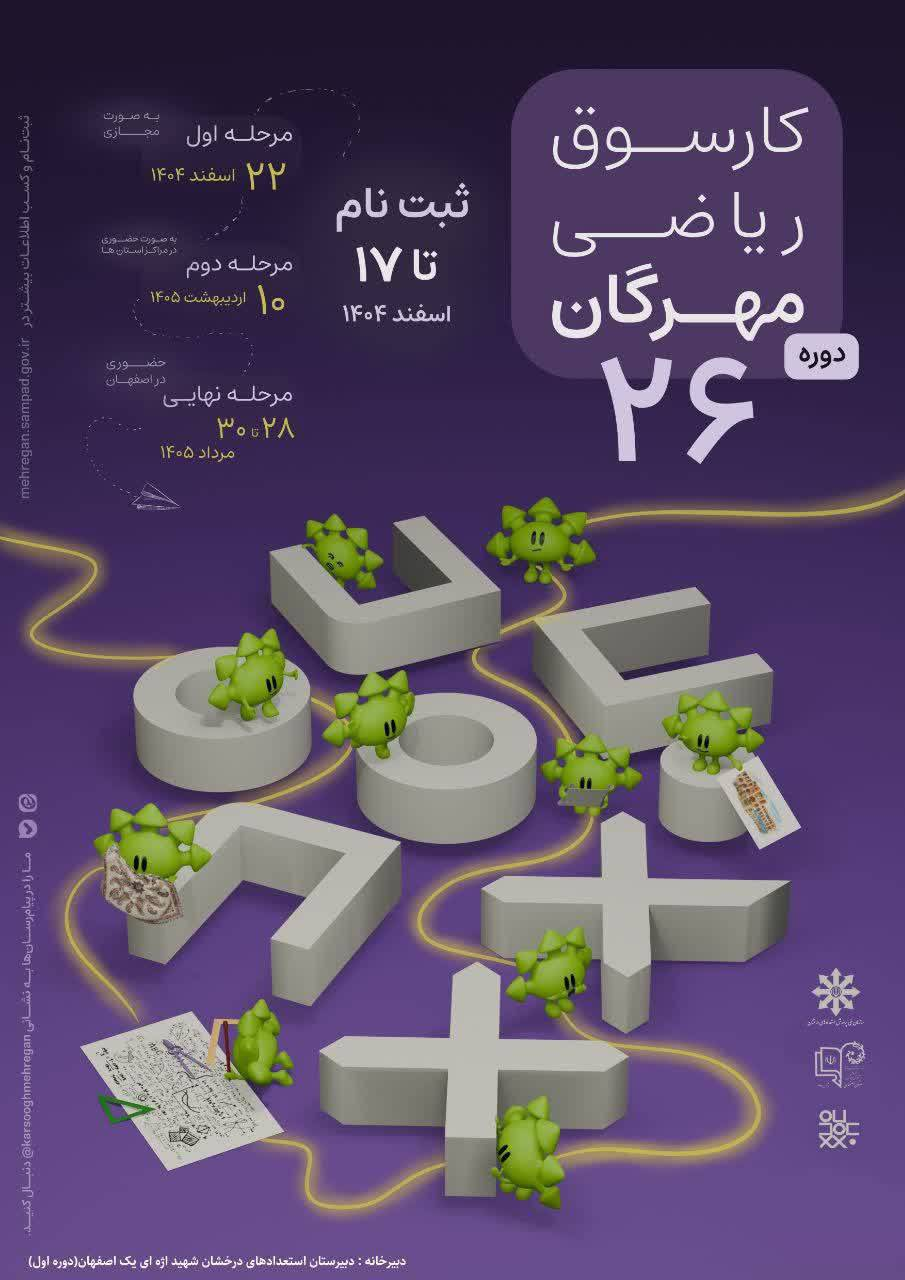
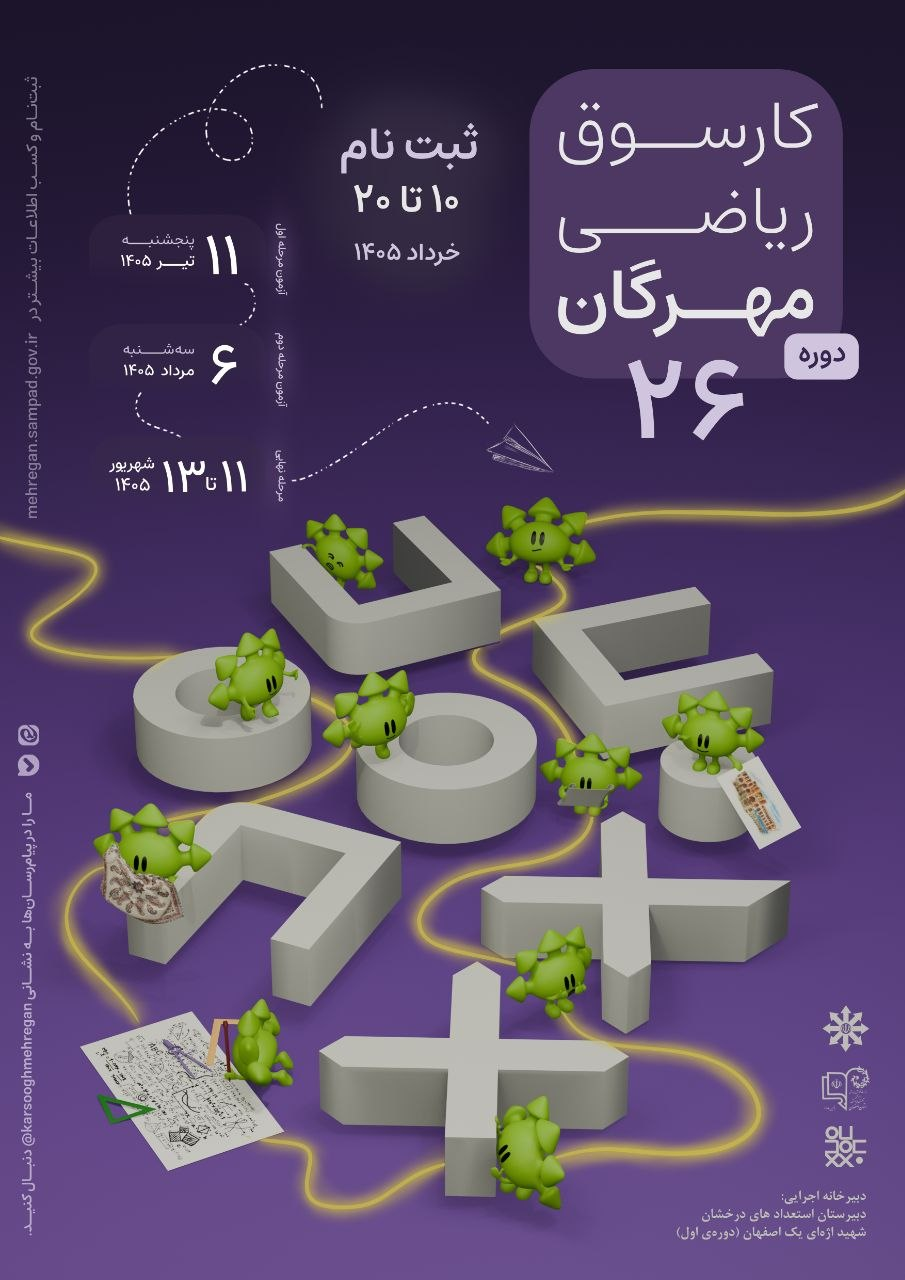
fix: update signup data and some UI fixes

diff --git a/src/components/Navbar.tsx b/src/components/Navbar.tsx
@@ -1,5 +1,5 @@
 import React, { useState } from 'react';
-import { FlaskConical, LogIn, Menu, Sparkles, X } from 'lucide-react';
+import { FlaskConical, LogIn, Menu, UserRoundPlus, X } from 'lucide-react';
 import logoIcon from '@/assets/Karsoogh.ico';
 import { Link } from 'react-router-dom';
 
@@ -61,15 +61,16 @@ const LoginButton = () => {
 
 const SignUpButton = () => {
   return (
-    <button
-      type="button"
+    <a
+      href="https://form.sampad.gov.ir/sampad/formView/3097"
+      target="_blank"
+      rel="noopener noreferrer"
       className="lab-button-primary hidden min-h-10 px-4 py-2 text-xs md:inline-flex md:text-sm"
-      disabled
-      title="ثبتنام بهزودی فعال میشود"
+      title="رفتن به فرم ثبتنام"
     >
-      <Sparkles size={16} aria-hidden="true" />
-      ثبتنام بهزودی
-    </button>
+      <UserRoundPlus size={16} aria-hidden="true" />
+      ثبتنام
+    </a>
   );
 };
 
@@ -119,14 +120,15 @@ const MobileMenu = ({
           ))}
 
           <li className="pt-2">
-            <button
-              type="button"
+            <a
+              href="https://form.sampad.gov.ir/sampad/formView/3097"
+              target="_blank"
+              rel="noopener noreferrer"
               className="lab-button-primary w-full"
-              disabled
-              title="ثبتنام بهزودی فعال میشود"
+              title="رفتن به فرم ثبتنام"
             >
-              تاریخ ثبتنام بهزودی
-            </button>
+              ثبتنام
+            </a>
           </li>
         </ul>
       </div>

diff --git a/src/components/landing/HeroSection.tsx b/src/components/landing/HeroSection.tsx
@@ -20,13 +20,16 @@ export function HeroSection() {
           دبیرخانه امور پژوهشی سازمان استعدادهای درخشان استان اصفهان
         </span>
 
-        <h1 className="mt-7 text-4xl font-black leading-[1.25] text-white sm:text-5xl lg:text-6xl">
+        {/* <h1 className="mt-7 text-4xl font-black leading-[1.25] text-white sm:text-5xl lg:text-6xl">
           کارسوق ریاضی مهرگان، دوره ۲۶
-        </h1>
+        </h1> */}
 
+        <h1 className="mt-7 flex flex-col gap-4 text-4xl font-black text-white sm:text-5xl lg:text-6xl">
+          <span>کارسوق ریاضی مهرگان،</span>
+          <span>دوره ۲۶</span>
+        </h1>
         <p className="mt-6 max-w-2xl text-base leading-8 text-slate-300 sm:text-lg">
-          با همکاری دانشآموختگان سمپاد استان برگزار میشود؛ رویدادی برای تجربهی ریاضی بیرون از
-          قالبهای خشک امتحان، نمره و کلاسهای معمول.
+          با همکاری دانشآموختگان سمپاد استان برگزار میشود.
         </p>
 
         <div className="mt-8 flex flex-col gap-3 sm:flex-row">
@@ -34,14 +37,15 @@ export function HeroSection() {
             کارسوق؟ کارسوق کیه؟
             <ArrowLeft size={18} aria-hidden="true" />
           </Link>
-          <button
-            type="button"
+          <a
+            href="https://form.sampad.gov.ir/sampad/formView/3097"
+            target="_blank"
+            rel="noopener noreferrer"
             className="lab-button-secondary"
-            disabled
-            title="تاریخ جدید ثبتنام اطلاعرسانی خواهد شد"
+            title="ورود به فرم ثبتنام"
           >
-            تاریخ ثبتنام بهزودی
-          </button>
+            فرم ثبتنام
+          </a>
         </div>
 
         <ul className="mt-9 grid gap-3 text-sm text-slate-300 sm:grid-cols-3">

diff --git a/src/components/landing/landingData.ts b/src/components/landing/landingData.ts
@@ -21,13 +21,13 @@ export const landingAssets = {
 };
 
 export const introPoints = [
-  'رویدادی علمی و تعاملی برای دیدن چهرهی واقعیتر ریاضی',
-  'برگزارشده توسط دانشآموزان و دانشجویان نهچندان بزرگتر از شرکتکنندگان',
-  'برای دانشآموزان سمپادی دبیرستان دوره اول متوسطه؛ پایههای هفتم، هشتم و نهم',
+  // 'رویدادی علمی و تعاملی برای دیدن چهرهی واقعیتر ریاضی',
+  // 'برگزارشده توسط دانشآموزان و دانشجویان نهچندان بزرگتر از شرکتکنندگان',
+  // 'برای دانشآموزان سمپادی دبیرستان دوره اول متوسطه؛ پایههای هفتم، هشتم و نهم',
 ];
 
 export const timelineItems = [
-  { title: 'ثبتنام', detail: 'تاریخ جدید ثبتنام اطلاعرسانی خواهد شد.' },
+  { title: 'ثبتنام', detail: 'تا ۲۰ خرداد مهلت ثبتنام وجود دارد.' },
   { title: 'مرحله اول', detail: 'آغاز ماجراجویی ریاضی با مسئلههایی متفاوت از امتحانهای مدرسه.' },
   { title: 'مرحله دوم', detail: 'مسیر عمیقتر برای راهیافتگان و علاقهمندان جدیتر.' },
   {
@@ -49,13 +49,12 @@ export const faqItems = [
   },
   {
     question: 'چجوری باید ثبتنام کنم؟',
-    answer:
-      'تاریخ و مسیر ثبتنام دوره جدید از همین سایت اطلاعرسانی میشود. در حال حاضر ثبتنام فعال نیست.',
+    answer: 'با کلیک روی دکمه ثبتنام به صفحه ثبتنام هدایت خواهید شد.',
   },
   {
     question: 'جایزه هم داره؟',
     answer:
-      'بله. راهیافتگان به مرحله تابستانه یادبودی از طرف تیم کارسوق دریافت میکنند و به دانشآموزان برتر نیز جوایز ارزندهای تعلق میگیرد.',
+      'معلومه که بله! راهیافتگان به مرحله تابستانه یادبودی از طرف تیم کارسوق دریافت میکنند و به دانشآموزان برتر نیز جوایز ارزندهای تعلق میگیرد.',
   },
   {
     question: 'چند مرحله آزمون باید بدیم؟',

diff --git a/src/components/landing/AboutSection.tsx b/src/components/landing/AboutSection.tsx
@@ -3,6 +3,8 @@ import { SectionHeader } from './SectionHeader';
 import { landingAssets } from './landingData';
 
 export function AboutSection() {
+  const aparatSrc = 'https://www.aparat.com/video/video/embed/videohash/4twoM/vt/frame';
+
   return (
     <section id="About" className="scroll-mt-28 py-16">
       <SectionHeader
@@ -13,7 +15,7 @@ export function AboutSection() {
       />
 
       <div className="grid gap-5 lg:grid-cols-[1.15fr_0.85fr]">
-        <div className="lab-card p-6 md:p-8">
+        <div className="lab-card flex flex-col p-6 md:p-8">
           <p className="text-base leading-9 text-slate-200 md:text-lg">
             «کارسوق ریاضی» یک رویداد علمی و تعاملی است که توسط دانشآموزان و دانشجویان نهچندان
             بزرگتر از شما در سراسر کشور برگزار میشود. هدف کارسوق این است که مباحث زیبا و جذاب
@@ -21,6 +23,14 @@ export function AboutSection() {
             کارسوق ریاضی مهرگان تلاش میکند چهرهی ریاضی را خارج از قالبهای خشک رایج به نمایش
             بگذارد و به دانشآموزان نشان بدهد ریاضی واقعی چیست.
           </p>
+          <div className="mt-auto mb-auto mx-auto aspect-video overflow-hidden rounded-[10px] sm:w-[90%] md:w-[80%] lg:w-[100%] xl:w-[85%] 2xl:w-[80%]">
+            <iframe
+              src={aparatSrc}
+              allowFullScreen
+              className="h-full w-full border-none outline-none"
+              title="Aparat Video"
+            ></iframe>
+          </div>
         </div>
 
         <div className="flex items-center justify-center">

diff --git a/src/components/docs/DocViewer.tsx b/src/components/docs/DocViewer.tsx
@@ -32,13 +32,16 @@ export default function DocViewer() {
     <div className="lab-shell min-h-screen font-secondary" dir="rtl" lang="fa">
       <div className="lab-container py-10 sm:py-14">
         <header className="mb-8 text-right">
-          <Link
+          {/* <Link
             to="/docs"
             className="mb-4 inline-flex cursor-pointer items-center gap-1 text-sm font-bold text-cyan-200 transition hover:text-cyan-100"
           >
-            همه مستندات
+            بازگشت
+          </Link> */}
+          {/* <p className="lab-kicker mb-3">مستندات</p> */}
+          <Link to="/docs" className="lab-kicker mb-3 transition hover:text-white">
+            بازگشت
           </Link>
-          <p className="lab-kicker mb-3">مستندات</p>
           <h1 className="text-3xl font-black tracking-tight text-white sm:text-4xl">
             {getDocTitle(docName)}
           </h1>

diff --git a/src/components/docs/DocsIndex.tsx b/src/components/docs/DocsIndex.tsx
@@ -9,7 +9,6 @@ export default function DocsIndex() {
     <div className="lab-shell min-h-screen font-secondary" dir="rtl" lang="fa">
       <div className="lab-container py-10 sm:py-14">
         <header className="mb-10 text-right">
-          <p className="lab-kicker mb-3">مستندات</p>
           <h1 className="text-3xl font-black tracking-tight text-white sm:text-4xl">
             فهرست مستندات
           </h1>